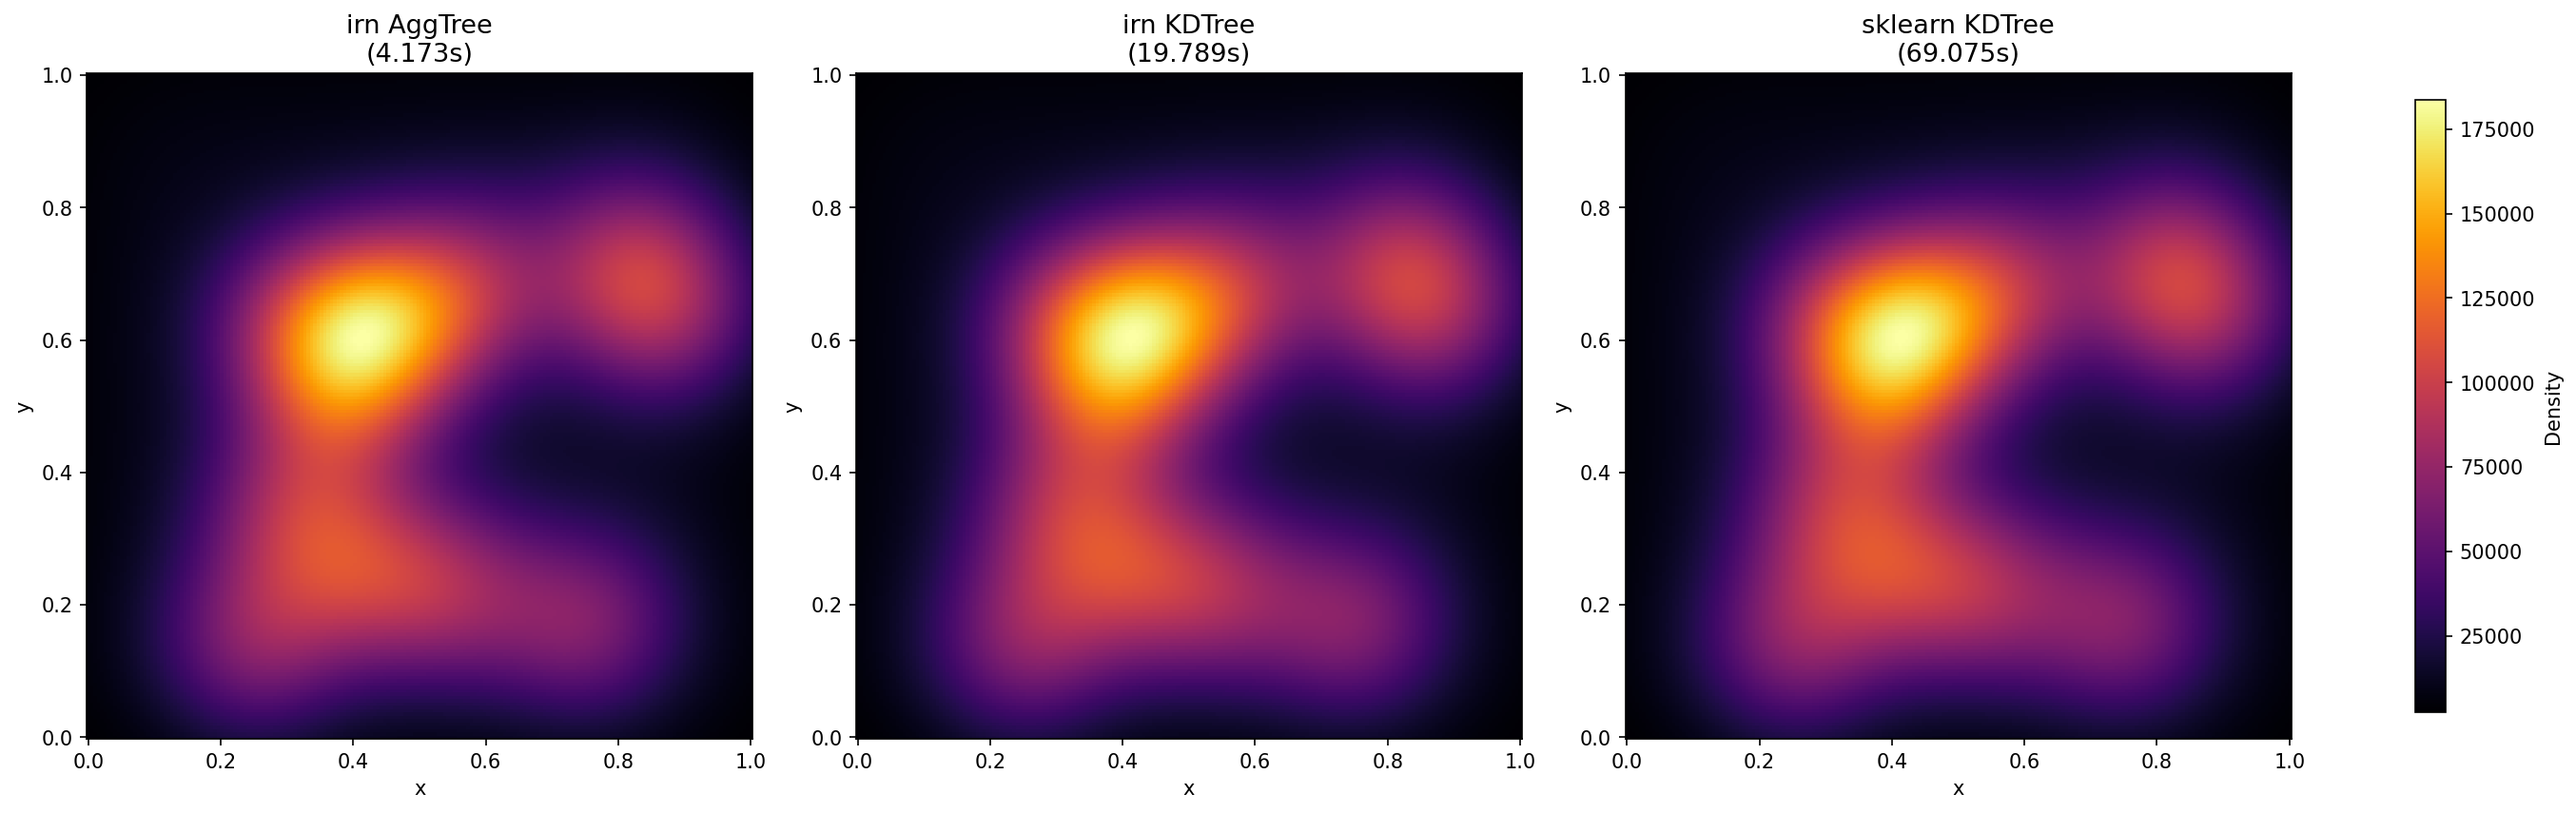
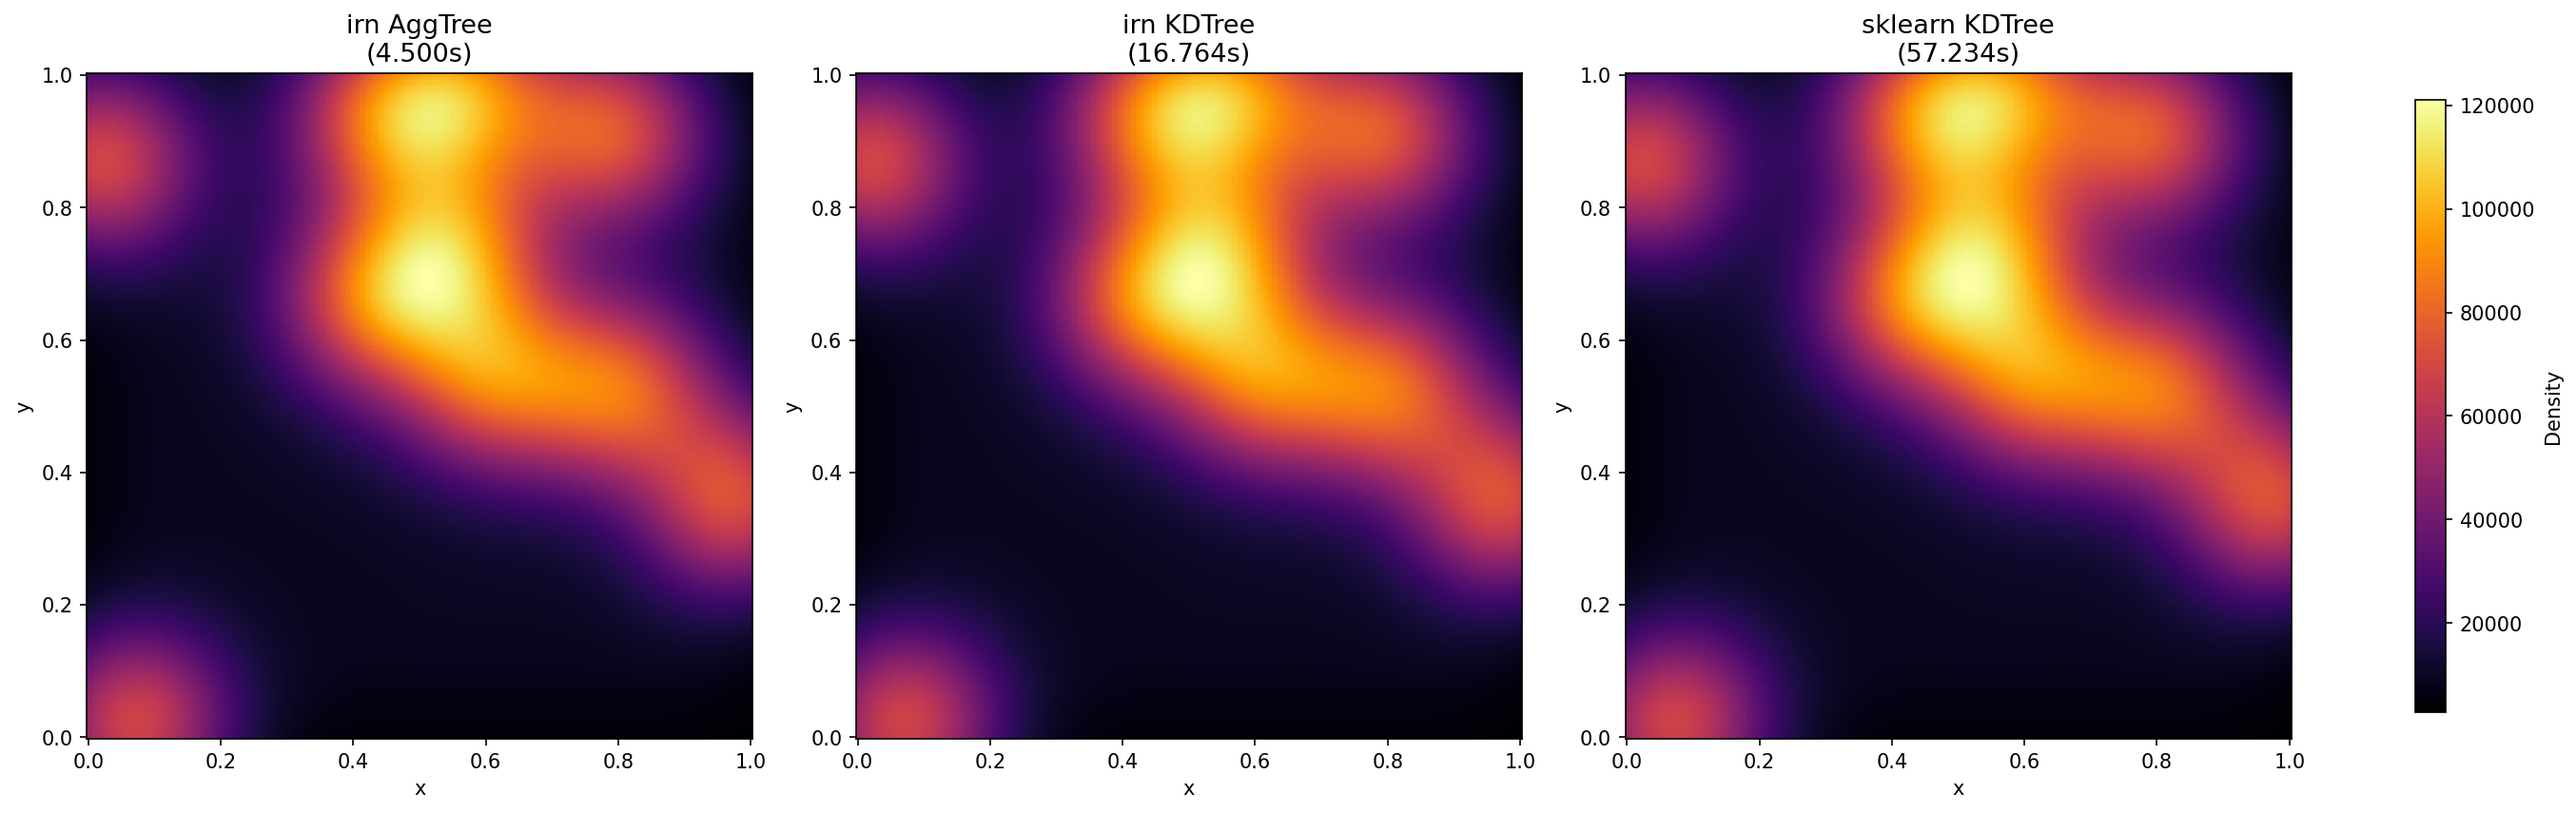
Made KDE parallel

diff --git a/src/spatial/spatial_query.rs b/src/spatial/spatial_query.rs
@@ -1,7 +1,10 @@
 use std::collections::BinaryHeap;
 use crate::{array::{NdArray, Shape}, spatial::common::{DistanceMetric, HeapItem, KernelType}};
+use rayon::prelude::*;
 
-pub trait SpatialQuery {
+const KDE_PAR_THRESHOLD: usize = 512;
+
+pub trait SpatialQuery: Sync {
     type Node;
 
     fn nodes(&self) -> &[Self::Node];
@@ -115,6 +118,30 @@ pub trait SpatialQuery {
         }
     }
 
+    fn seq_kde_recursion(&self, kernel: KernelType, bandwidth: f64, queries: &NdArray<f64>, n_queries: usize, dim: usize) -> Vec<f64>{
+        let mut results = vec![0.0; n_queries];
+
+        for i in 0..n_queries {
+            let query = &queries.as_slice()[i * dim..(i + 1) * dim];
+            let mut density = 0.0;
+            self.kde_recursive(0, query, bandwidth, &mut density, kernel);
+            results[i] = density;
+        }
+        results
+    }
+
+    fn par_kde_recursion(&self, kernel: KernelType, bandwidth: f64, queries: &NdArray<f64>, n_queries: usize, dim: usize) -> Vec<f64>{
+        let results: Vec<f64> = (0..n_queries)
+            .into_par_iter()
+            .map(|i| {
+                let query = &queries.as_slice()[i * dim..(i + 1) * dim];
+                let mut density = 0.0;
+                self.kde_recursive(0, query, bandwidth, &mut density, kernel);
+                density
+            })
+            .collect();
+        results
+    }
 
     fn kernel_density(&self, queries: &NdArray<f64>, bandwidth: f64, kernel: KernelType, normalize: bool) -> NdArray<f64> {
         let shape = queries.shape().dims();
@@ -124,14 +151,11 @@ pub trait SpatialQuery {
         let dim = shape[1];
         assert_eq!(dim, self.dim(), "Query dimension must match tree dimension");
 
-        let mut results = vec![0.0; n_queries];
-
-        for i in 0..n_queries {
-            let query = &queries.as_slice()[i * dim..(i + 1) * dim];
-            let mut density = 0.0;
-            self.kde_recursive(0, query, bandwidth, &mut density, kernel);
-            results[i] = density;
-        }
+        let mut results = if n_queries >= KDE_PAR_THRESHOLD {
+            self.par_kde_recursion(kernel, bandwidth, queries, n_queries, dim)
+        } else {
+            self.seq_kde_recursion(kernel, bandwidth, queries, n_queries, dim)
+        };
 
         if normalize {
             let h_d = bandwidth.powi(dim as i32);

diff --git a/tests/heatmap.py b/tests/heatmap.py
@@ -62,6 +62,27 @@ def gen_elliptical_clusters():
 
     return points, queries
 
+def gen_spherical_clusters():
+    seed = 0
+    n_points = 50000
+    n_queries = 50
+    d = 2
+    rng = np.random.default_rng(seed)
+    n_blobs = int(n_points * 0.8)
+    n_noise = n_points - n_blobs
+
+    blobs, _ = make_blobs(n_samples=n_blobs, centers=10, cluster_std=0.1, n_features=d, random_state=seed)
+
+    blobs = (blobs - blobs.min(axis=0)) / (blobs.max(axis=0) - blobs.min(axis=0))
+    noise = rng.uniform(0.0, 1.0, size=(n_noise, d))
+
+    points = np.vstack([blobs, noise])
+    rng.shuffle(points)
+
+    queries, _ = make_blobs(n_samples=n_queries, centers=10, cluster_std=0.1, n_features=d, random_state=seed + 1)
+    queries = (queries - queries.min(axis=0)) / (queries.max(axis=0) - queries.min(axis=0))
+    return points, queries
+
 def run_kde(points_np, grid_np, bandwidth=0.05, leaf_size=32):
     """Run KDE with all 3 methods, return density grids and timings."""
     points_irn = irn.ndutils.from_numpy(points_np)
@@ -120,13 +141,9 @@ def plot_heatmaps(xx, yy, densities, times, output_path="kde_heatmap_compare.png
 
 
 if __name__ == "__main__":
-    # Generate clustered 2D data
-    # points_np, _ = make_blobs( # type: ignore
-    #     n_samples=50_000, centers=10, cluster_std=0.04,
-    #     n_features=2, random_state=101,
-    # )
 
-    points_np, _ = gen_elliptical_clusters()
+    #points_np, _ = gen_elliptical_clusters()
+    points_np, _ = gen_spherical_clusters()
     # Rescale to [0, 1]
     points_np -= points_np.min(axis=0)
     points_np /= points_np.max(axis=0)

diff --git a/tests/tree_benchmark.py b/tests/tree_benchmark.py
@@ -147,8 +147,8 @@ if __name__ == "__main__":
     points_np = all_data[:100000]
     queries_np = all_data[100000:]
 
-    points_irn = irn.Array.from_numpy(points_np)
-    queries_irn = irn.Array.from_numpy(queries_np)
+    points_irn = irn.ndutils.from_numpy(points_np)
+    queries_irn = irn.ndutils.from_numpy(queries_np)
 
     t0 = time.perf_counter()
     agg_result = irn.spatial.AggTree.from_array(points_irn,leaf_size=32,metric="euclidean",kernel="gaussian",bandwidth=0.5,atol=1e-4) \

diff --git a/tests/agg_tree_benchmark.py b/tests/agg_tree_benchmark.py
@@ -95,7 +95,7 @@ def gen_elliptical_clusters():
 if __name__ == "__main__":
     n_points = 100_000
     n_queries = 1_000
-    dims = [2, 4, 8, 16]
+    dims = [2, 4, 8, 16, 32, 64]
     seed = 42
     rng = np.random.default_rng(2)
 
